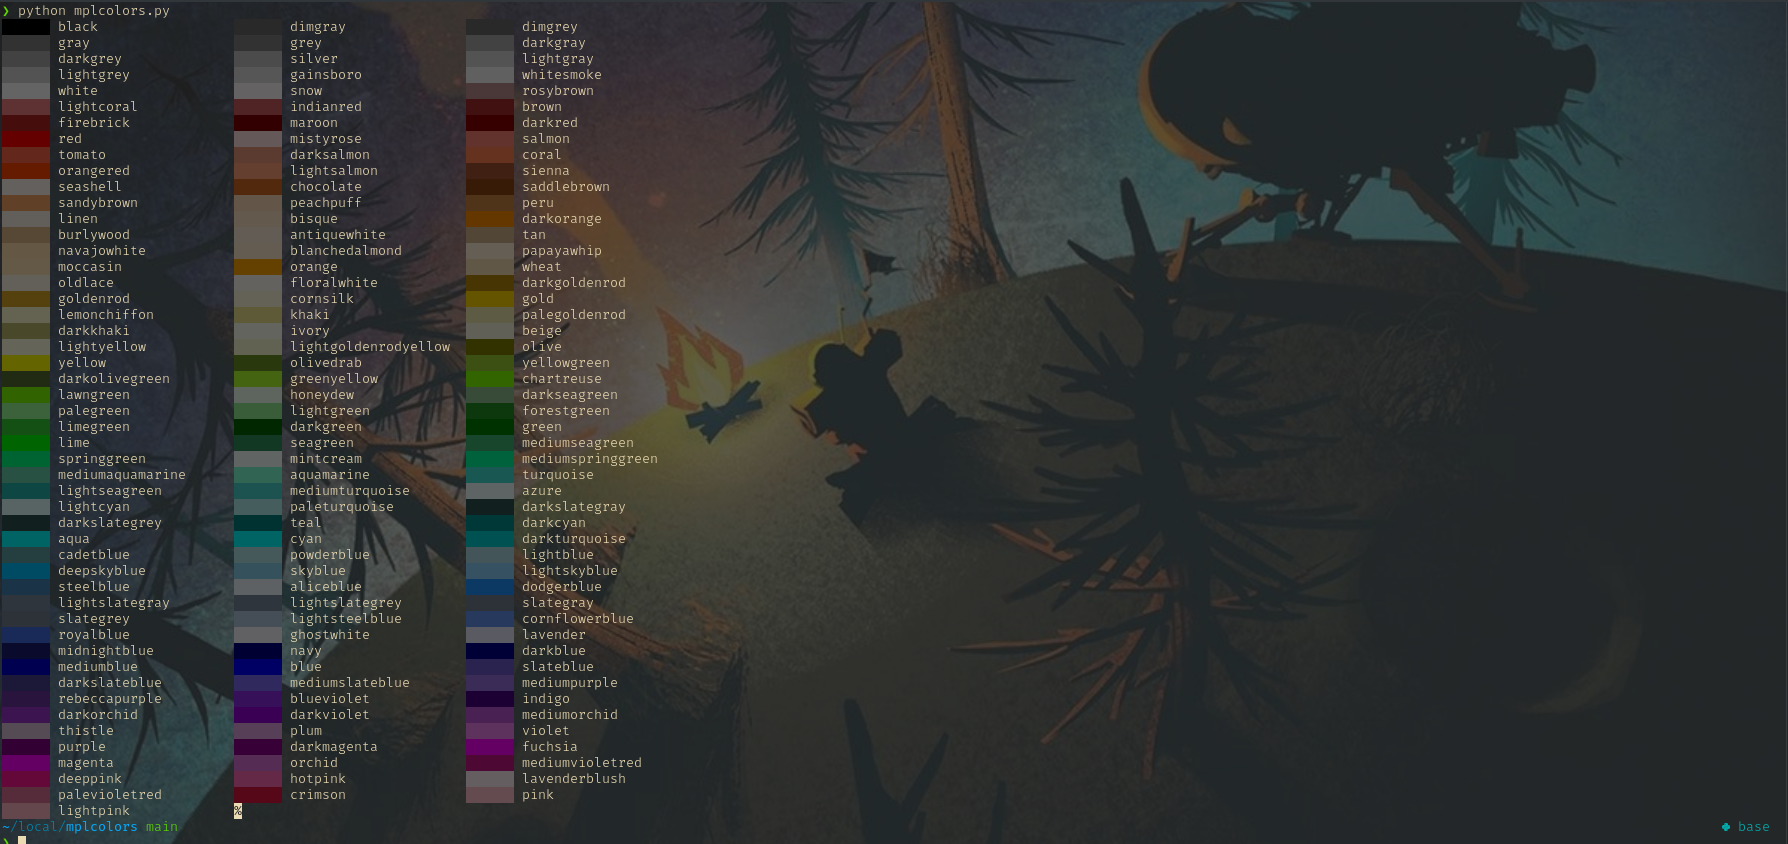
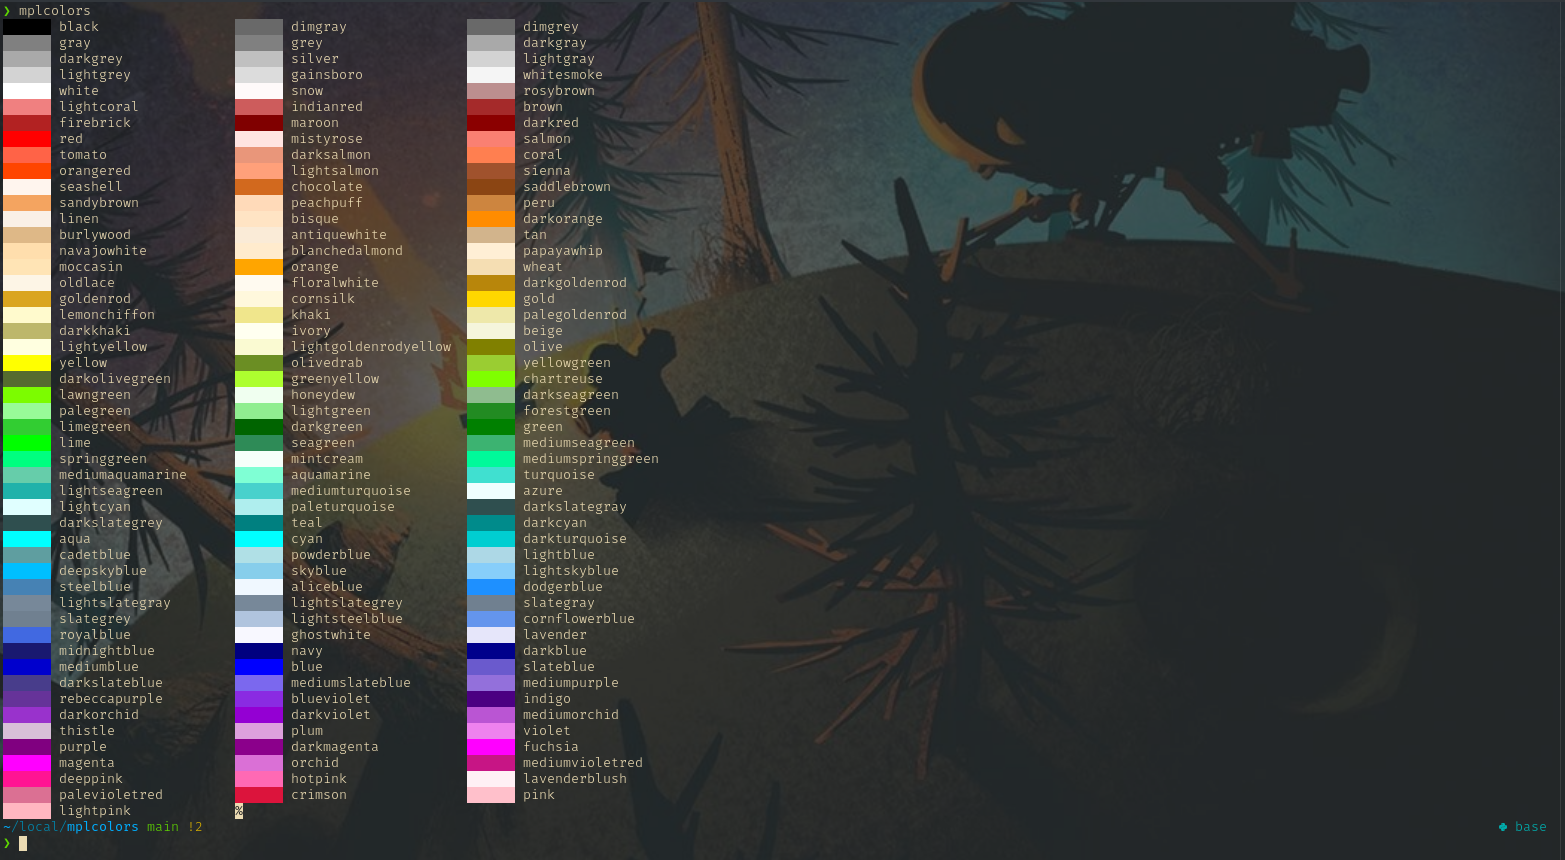
fixed colros being too dim

diff --git a/mplcolors.py b/mplcolors.py
@@ -24,7 +24,7 @@ def FormatRGB( rgb ):
     Output is a string with ANSI escape sequences.
     """
 
-    rgb = [ round(i*100) for i in rgb  ]
+    rgb = [ round(i*255) for i in rgb  ]
 
     # ANSI escape sequence mess
     return "\x1b[48;2;" + str(rgb[0]) + ";" + str(rgb[1]) + ";" + str(rgb[2]) + "m"

diff --git a/README.md b/README.md
@@ -5,8 +5,7 @@ This uses [matplotlib.colors](https://matplotlib.org/stable/api/colors_api.html)
 with [ANSI escape sequences](https://stackoverflow.com/questions/4842424/list-of-ansi-color-escape-sequences).
 
 It can also print all of the built-in colorbars.
-**Note**: The printed colors are slightly dimmer/duller than the proper colors due to how they're displayed.
-I'll look into how to fix this, but this should only be used as a quick reminder.
+
 # Compatability
 This requires a [terminal with true color support](https://gist.github.com/XVilka/8346728).
 Notably, Mac's Terminal.app does not have this and so the colors cannot be properly displayed.
